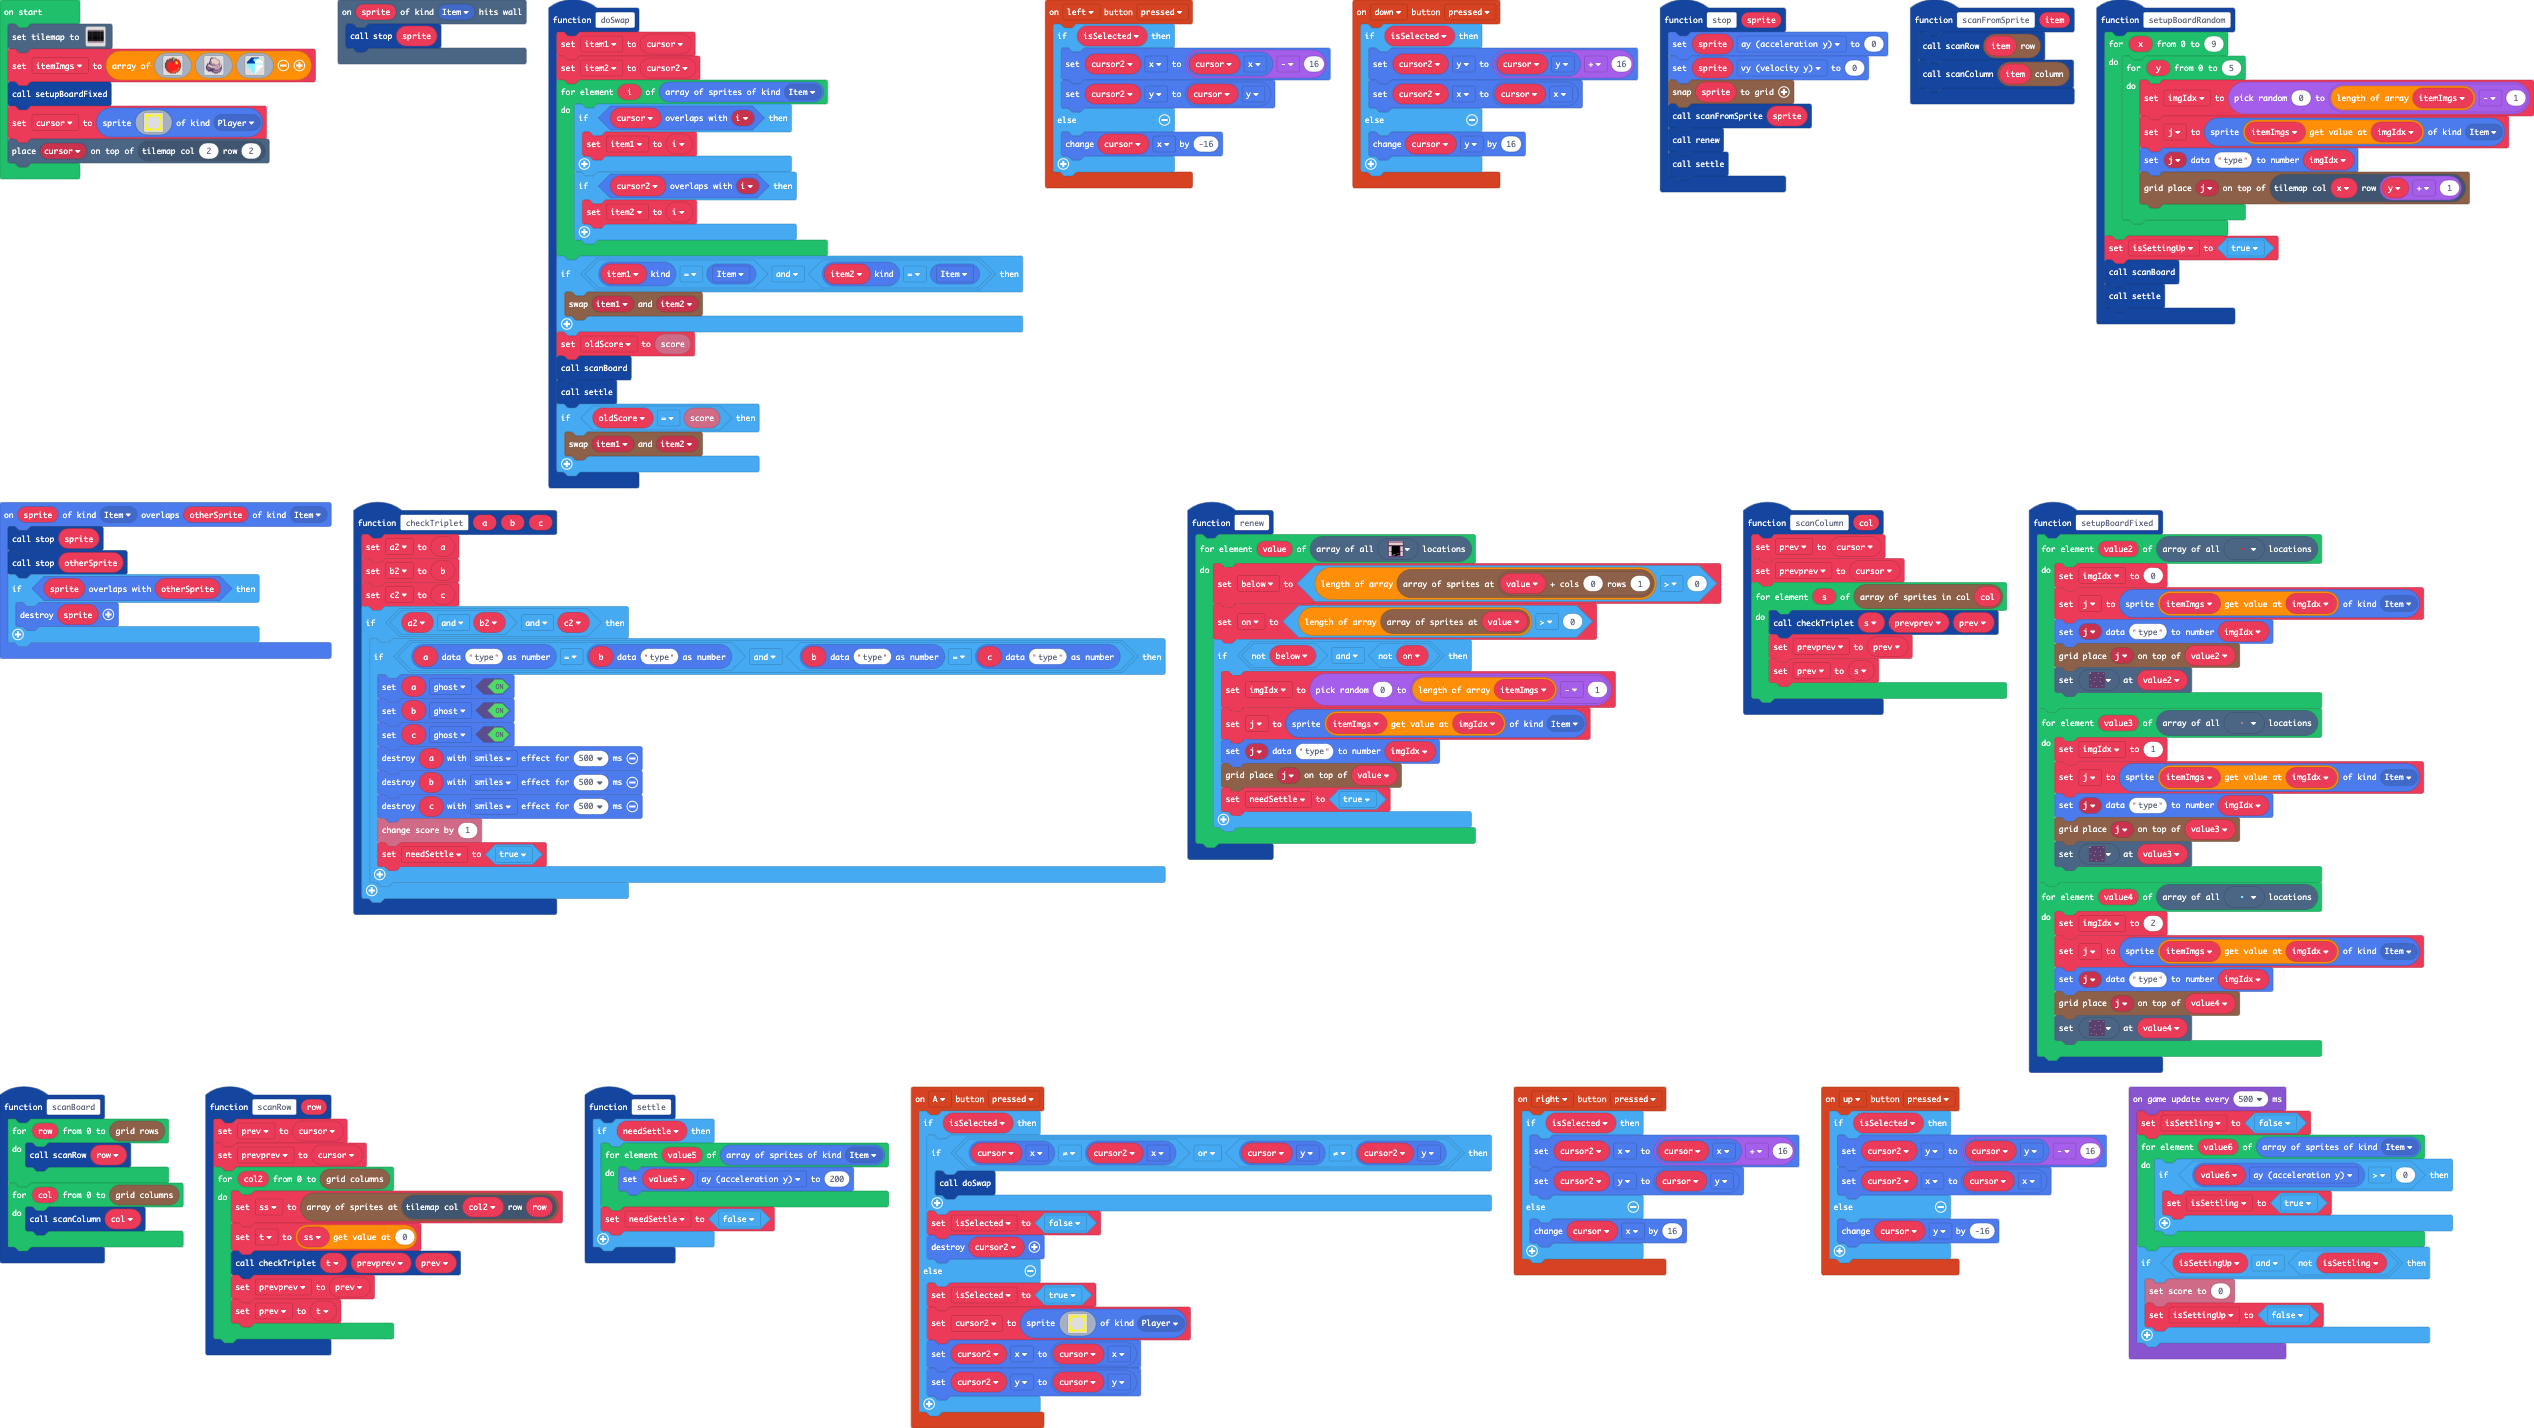
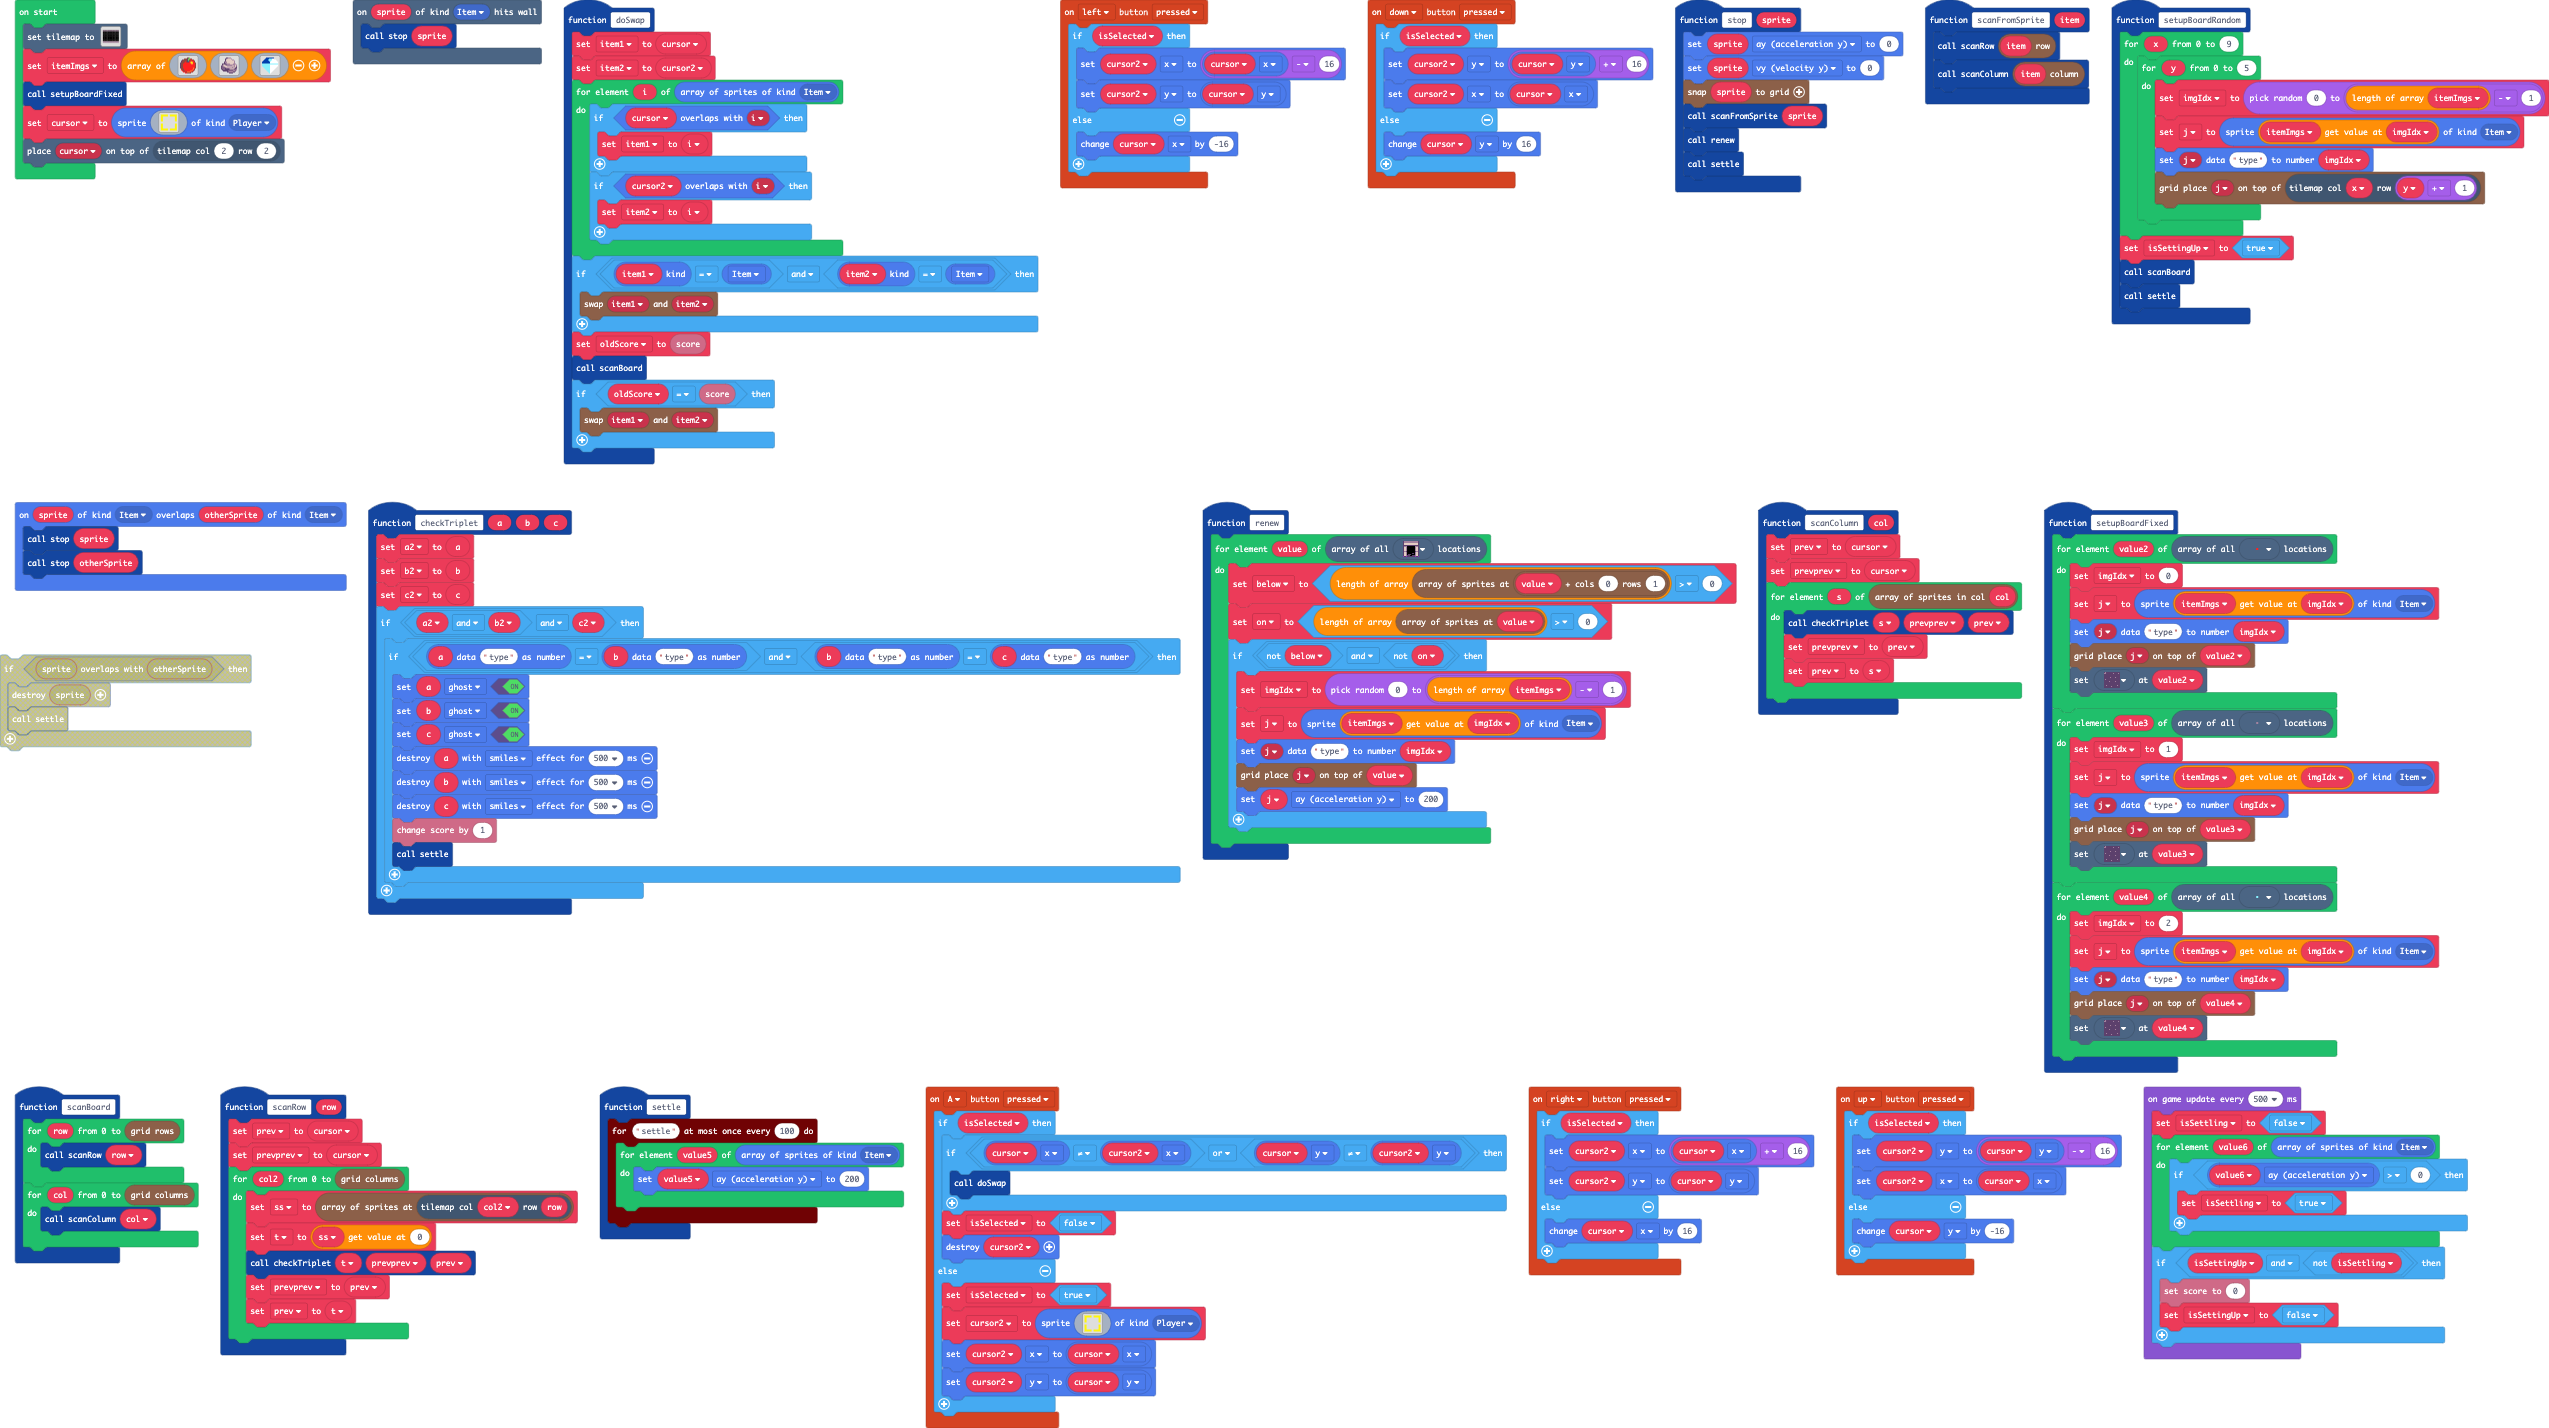
Use debounce to simplify some logic

Changed region(s): [[0.0, 0.0, 0.9353, 0.7395], [0.0, 0.7395, 0.9353, 1.0], [0.4053, 0.0, 0.9665, 0.2157]]

diff --git a/main.ts b/main.ts
@@ -100,7 +100,6 @@ function doSwap () {
     }
     oldScore = info.score()
     scanBoard()
-    settle()
     if (oldScore == info.score()) {
         grid.swap(item1, item2)
     }
@@ -149,9 +148,6 @@ function setupBoardRandom () {
 sprites.onOverlap(SpriteKind.Item, SpriteKind.Item, function (sprite, otherSprite) {
     stop(sprite)
     stop(otherSprite)
-    if (sprite.overlapsWith(otherSprite)) {
-        sprite.destroy()
-    }
 })
 function checkTriplet (a: Sprite, b: Sprite, c: Sprite) {
     a2 = a
@@ -166,7 +162,7 @@ function checkTriplet (a: Sprite, b: Sprite, c: Sprite) {
             b.destroy(effects.smiles, 500)
             c.destroy(effects.smiles, 500)
             info.changeScoreBy(1)
-            needSettle = true
+            settle()
         }
     }
 }
@@ -179,7 +175,7 @@ function renew () {
             j = sprites.create(itemImgs[imgIdx], SpriteKind.Item)
             sprites.setDataNumber(j, "type", imgIdx)
             grid.place(j, value)
-            needSettle = true
+            j.ay = 200
         }
     }
 }
@@ -282,12 +278,11 @@ controller.up.onEvent(ControllerButtonEvent.Pressed, function () {
     }
 })
 function settle () {
-    if (needSettle) {
+    timer.throttle("settle", 100, function () {
         for (let value5 of sprites.allOfKind(SpriteKind.Item)) {
             value5.ay = 200
         }
-        needSettle = false
-    }
+    })
 }
 let isSettling = false
 let t: Sprite = null
@@ -296,7 +291,6 @@ let prevprev: Sprite = null
 let prev: Sprite = null
 let on = false
 let below = false
-let needSettle = false
 let c2: Sprite = null
 let b2: Sprite = null
 let a2: Sprite = null
